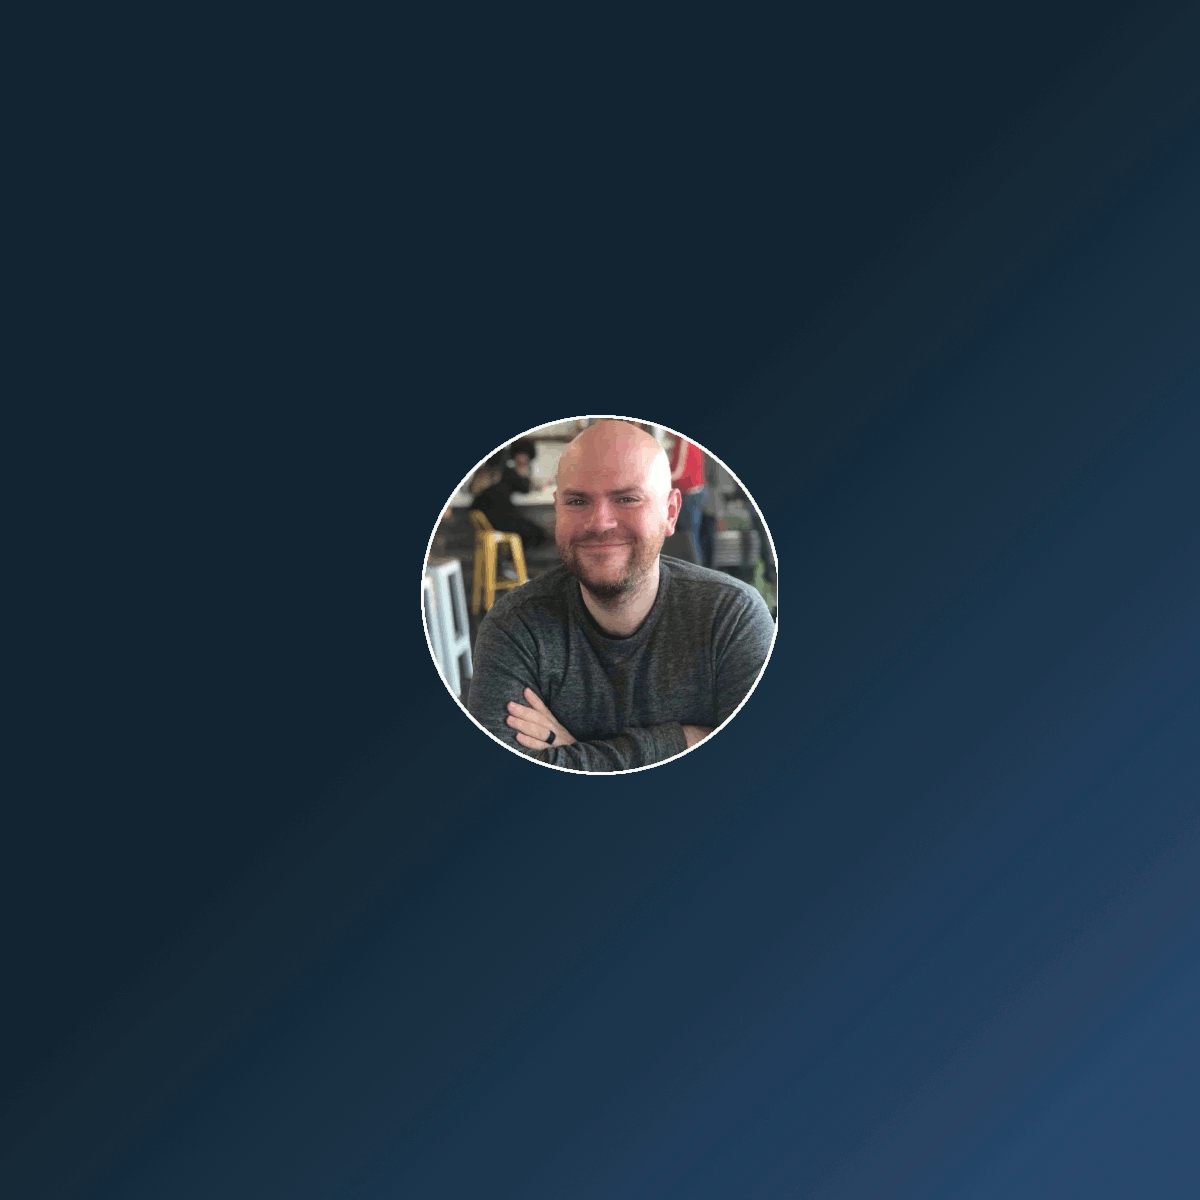
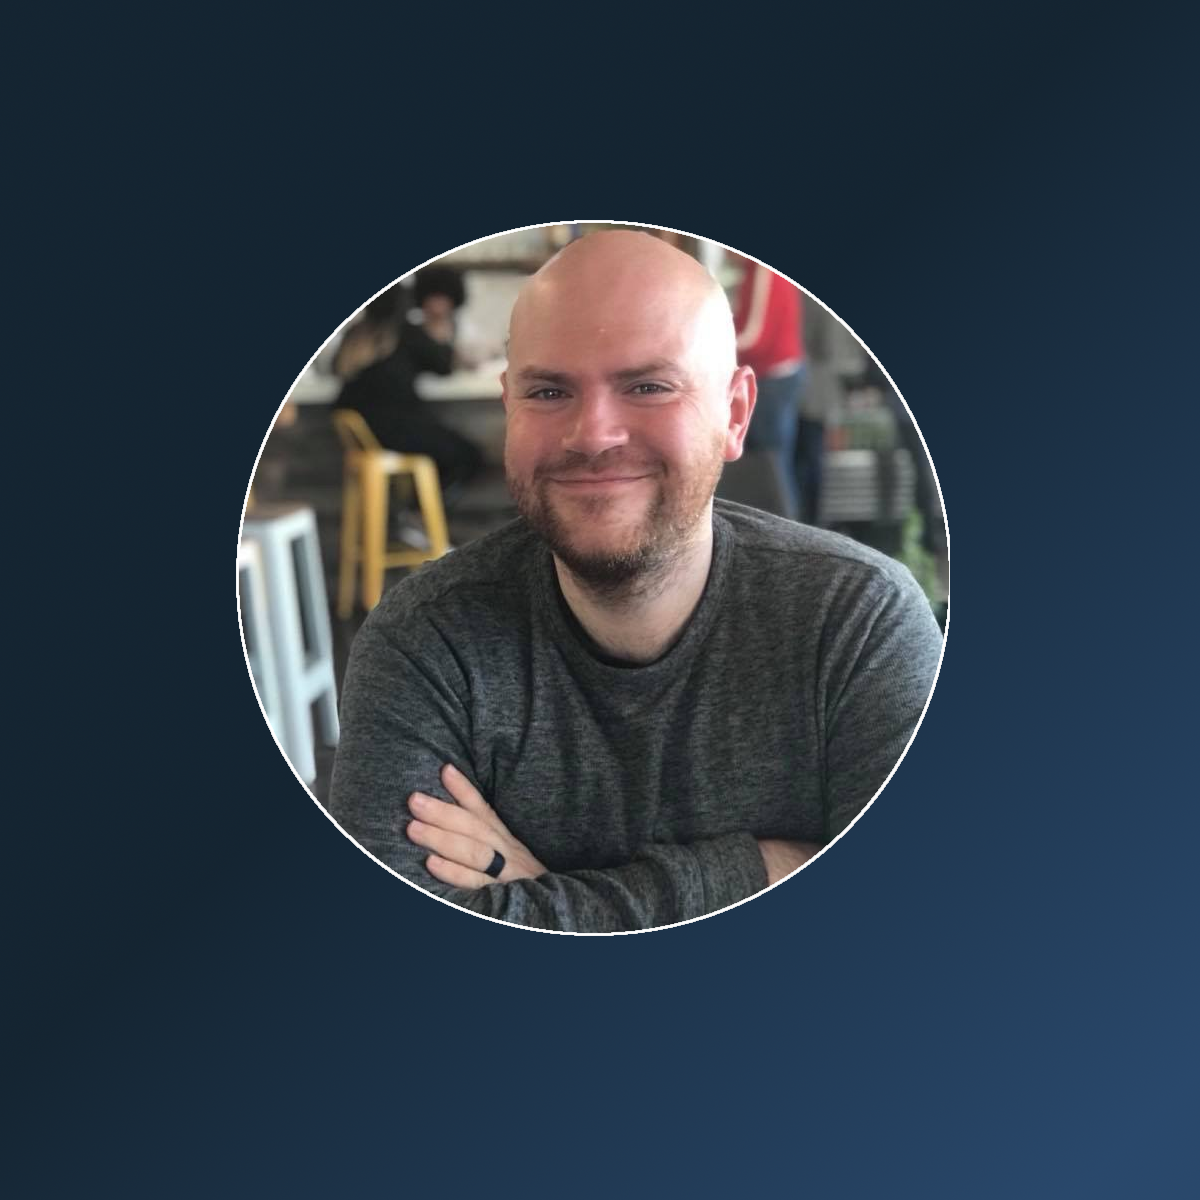
Change og:image

Changed region(s): [[0.185, 0.185, 0.8017, 0.8017]]

diff --git a/index.html b/index.html
@@ -11,13 +11,13 @@
 	<meta property="og:title" content="FrankIncredible.com: Home of Frank Steinberg" />
 	<meta property="og:type" content="website" />
 	<meta property="og:url" content="https://www.frankincredible.com" />
-	<meta property="og:image" content="http://www.frankincredible.com/img/ogbanner.png" />
+	<meta property="og:image" content="http://www.frankincredible.com/img/ogbanner-waterpaint.png" />
 
 	<meta name="twitter:card" content="summary" />
 	<meta name="twitter:site" content="@frankincredible" />
 	<meta name="twitter:title" content="FrankIncredible.com" />
-	<meta name="twitter:description" content="Frank Steinberg a Senior Web Developer with  the experience and a proven ability to work with clients to bridge the gap between their vision and execution." />
-	<meta name="twitter:image" content="http://www.frankincredible.com/img/ogbanner.png" />
+	<meta name="twitter:description" content="Frank Steinberg a Senior Web Developer with the experience and proven ability to work with clients to bridge the gap between their vision and execution." />
+	<meta name="twitter:image" content="http://www.frankincredible.com/img/ogbanner-waterpaint.png" />
 	<meta name="twitter:image:alt" content="Photo of Frank Steinberg" />
 
 	<link rel="apple-touch-icon" href="apple-touch-icon.png">
